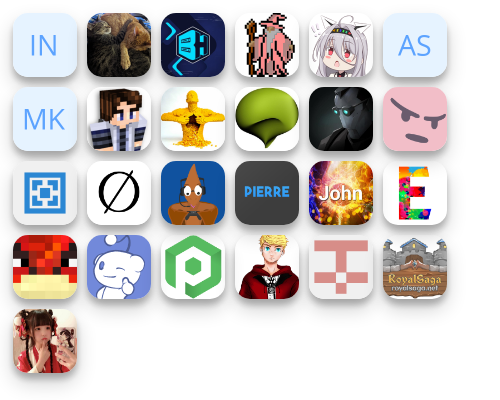
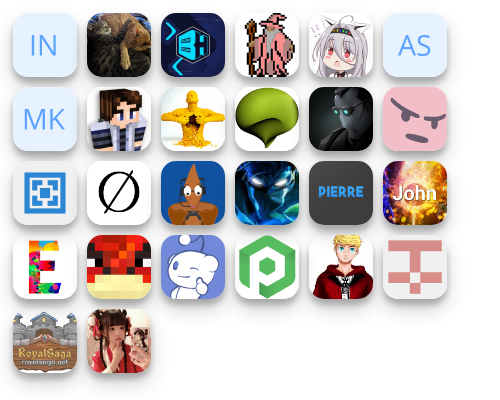
Sponsor Update

Changed region(s): [[0.45, 0.39, 0.9, 0.75], [0.0, 0.57, 0.45, 0.96]]

diff --git a/sponsors.html b/sponsors.html
@@ -1,7 +1,7 @@
 <html lang="en" style="height: 400px;width: 500px">
     <body>
     <ul style="margin: 0;padding: 0;list-style: none;">
-        <li style="display: inline"><img src='https://images.opencollective.com/incognito-6605083f/avatar.png' alt='Incognito' title='Incognito' onerror='this.src="https://opencollective.com/static/images/default-guest-logo.svg"' style="height: 64px;width: 64px;margin: 5px;border-radius: 15px;box-shadow: 0 10px 20px rgba(0,0,0,0.19), 0 6px 6px rgba(0,0,0,0.23);"/></li><li style="display: inline"><img src='https://images.opencollective.com/kyle-wood/57ef452/avatar.png' alt='Kyle Wood' title='Kyle Wood' onerror='this.src="https://opencollective.com/static/images/default-guest-logo.svg"' style="height: 64px;width: 64px;margin: 5px;border-radius: 15px;box-shadow: 0 10px 20px rgba(0,0,0,0.19), 0 6px 6px rgba(0,0,0,0.23);"/></li><li style="display: inline"><img src='https://images.opencollective.com/bisecthosting/a176793/logo.png' alt='BisectHosting' title='BisectHosting' onerror='this.src="https://opencollective.com/static/images/default-guest-logo.svg"' style="height: 64px;width: 64px;margin: 5px;border-radius: 15px;box-shadow: 0 10px 20px rgba(0,0,0,0.19), 0 6px 6px rgba(0,0,0,0.23);"/></li><li style="display: inline"><img src='https://images.opencollective.com/notmyfault/8026388/avatar.png' alt='NotMyFault' title='NotMyFault' onerror='this.src="https://opencollective.com/static/images/default-guest-logo.svg"' style="height: 64px;width: 64px;margin: 5px;border-radius: 15px;box-shadow: 0 10px 20px rgba(0,0,0,0.19), 0 6px 6px rgba(0,0,0,0.23);"/></li><li style="display: inline"><img src='https://images.opencollective.com/paper-chan/21d649c/avatar.png' alt='Paper Chan' title='Paper Chan' onerror='this.src="https://opencollective.com/static/images/default-guest-logo.svg"' style="height: 64px;width: 64px;margin: 5px;border-radius: 15px;box-shadow: 0 10px 20px rgba(0,0,0,0.19), 0 6px 6px rgba(0,0,0,0.23);"/></li><li style="display: inline"><img src='https://images.opencollective.com/andrew-steinborn/avatar.png' alt='Andrew Steinborn' title='Andrew Steinborn' onerror='this.src="https://opencollective.com/static/images/default-guest-logo.svg"' style="height: 64px;width: 64px;margin: 5px;border-radius: 15px;box-shadow: 0 10px 20px rgba(0,0,0,0.19), 0 6px 6px rgba(0,0,0,0.23);"/></li><li style="display: inline"><img src='https://images.opencollective.com/guest-e5424b5d/avatar.png' alt='Max Klug' title='Max Klug' onerror='this.src="https://opencollective.com/static/images/default-guest-logo.svg"' style="height: 64px;width: 64px;margin: 5px;border-radius: 15px;box-shadow: 0 10px 20px rgba(0,0,0,0.19), 0 6px 6px rgba(0,0,0,0.23);"/></li><li style="display: inline"><img src='https://images.opencollective.com/macth3mac/0c70ec8/avatar.png' alt='MacTh3Mac' title='MacTh3Mac' onerror='this.src="https://opencollective.com/static/images/default-guest-logo.svg"' style="height: 64px;width: 64px;margin: 5px;border-radius: 15px;box-shadow: 0 10px 20px rgba(0,0,0,0.19), 0 6px 6px rgba(0,0,0,0.23);"/></li><li style="display: inline"><img src='https://images.opencollective.com/minidigger/d330b74/avatar.png' alt='MiniDigger | Martin' title='MiniDigger | Martin' onerror='this.src="https://opencollective.com/static/images/default-guest-logo.svg"' style="height: 64px;width: 64px;margin: 5px;border-radius: 15px;box-shadow: 0 10px 20px rgba(0,0,0,0.19), 0 6px 6px rgba(0,0,0,0.23);"/></li><li style="display: inline"><img src='https://avatars.githubusercontent.com/u/181668?v=4' alt='mbax' title='mbax' onerror='this.src="https://opencollective.com/static/images/default-guest-logo.svg"' style="height: 64px;width: 64px;margin: 5px;border-radius: 15px;box-shadow: 0 10px 20px rgba(0,0,0,0.19), 0 6px 6px rgba(0,0,0,0.23);"/></li><li style="display: inline"><img src='https://avatars.githubusercontent.com/u/3602279?u=d8ad6831864c2419b95272e155a503ea9f3b6158' alt='Doc94' title='Doc94' onerror='this.src="https://opencollective.com/static/images/default-guest-logo.svg"' style="height: 64px;width: 64px;margin: 5px;border-radius: 15px;box-shadow: 0 10px 20px rgba(0,0,0,0.19), 0 6px 6px rgba(0,0,0,0.23);"/></li><li style="display: inline"><img src='https://avatars.githubusercontent.com/u/7191851?v=4' alt='sweepyoface' title='sweepyoface' onerror='this.src="https://opencollective.com/static/images/default-guest-logo.svg"' style="height: 64px;width: 64px;margin: 5px;border-radius: 15px;box-shadow: 0 10px 20px rgba(0,0,0,0.19), 0 6px 6px rgba(0,0,0,0.23);"/></li><li style="display: inline"><img src='https://avatars.githubusercontent.com/u/10004025?v=4' alt='aternosorg' title='aternosorg' onerror='this.src="https://opencollective.com/static/images/default-guest-logo.svg"' style="height: 64px;width: 64px;margin: 5px;border-radius: 15px;box-shadow: 0 10px 20px rgba(0,0,0,0.19), 0 6px 6px rgba(0,0,0,0.23);"/></li><li style="display: inline"><img src='https://avatars.githubusercontent.com/u/13875753?u=6e3a6da4e2af646471f846dc618c251b00b58d9c' alt='LMBishop' title='LMBishop' onerror='this.src="https://opencollective.com/static/images/default-guest-logo.svg"' style="height: 64px;width: 64px;margin: 5px;border-radius: 15px;box-shadow: 0 10px 20px rgba(0,0,0,0.19), 0 6px 6px rgba(0,0,0,0.23);"/></li><li style="display: inline"><img src='https://avatars.githubusercontent.com/u/16179146?v=4' alt='pterodactyl' title='pterodactyl' onerror='this.src="https://opencollective.com/static/images/default-guest-logo.svg"' style="height: 64px;width: 64px;margin: 5px;border-radius: 15px;box-shadow: 0 10px 20px rgba(0,0,0,0.19), 0 6px 6px rgba(0,0,0,0.23);"/></li><li style="display: inline"><img src='https://avatars.githubusercontent.com/u/27054324?u=bb7337fe6921d0d732fa56b4089366e721987ef1' alt='PierreSchwang' title='PierreSchwang' onerror='this.src="https://opencollective.com/static/images/default-guest-logo.svg"' style="height: 64px;width: 64px;margin: 5px;border-radius: 15px;box-shadow: 0 10px 20px rgba(0,0,0,0.19), 0 6px 6px rgba(0,0,0,0.23);"/></li><li style="display: inline"><img src='https://avatars.githubusercontent.com/u/28821789?v=4' alt='J0ddy' title='J0ddy' onerror='this.src="https://opencollective.com/static/images/default-guest-logo.svg"' style="height: 64px;width: 64px;margin: 5px;border-radius: 15px;box-shadow: 0 10px 20px rgba(0,0,0,0.19), 0 6px 6px rgba(0,0,0,0.23);"/></li><li style="display: inline"><img src='https://avatars.githubusercontent.com/u/35953244?v=4' alt='emielderckx' title='emielderckx' onerror='this.src="https://opencollective.com/static/images/default-guest-logo.svg"' style="height: 64px;width: 64px;margin: 5px;border-radius: 15px;box-shadow: 0 10px 20px rgba(0,0,0,0.19), 0 6px 6px rgba(0,0,0,0.23);"/></li><li style="display: inline"><img src='https://avatars.githubusercontent.com/u/42840288?u=a5c905371d28210544d8c8bb2ec8ec71f5fa8f57' alt='redbau' title='redbau' onerror='this.src="https://opencollective.com/static/images/default-guest-logo.svg"' style="height: 64px;width: 64px;margin: 5px;border-radius: 15px;box-shadow: 0 10px 20px rgba(0,0,0,0.19), 0 6px 6px rgba(0,0,0,0.23);"/></li><li style="display: inline"><img src='https://avatars.githubusercontent.com/u/44026893?u=1aa282d38edd1262d618ee4ec268cbf1c922f5b9' alt='NoahvdAa' title='NoahvdAa' onerror='this.src="https://opencollective.com/static/images/default-guest-logo.svg"' style="height: 64px;width: 64px;margin: 5px;border-radius: 15px;box-shadow: 0 10px 20px rgba(0,0,0,0.19), 0 6px 6px rgba(0,0,0,0.23);"/></li><li style="display: inline"><img src='https://avatars.githubusercontent.com/u/53379531?v=4' alt='pebblehost' title='pebblehost' onerror='this.src="https://opencollective.com/static/images/default-guest-logo.svg"' style="height: 64px;width: 64px;margin: 5px;border-radius: 15px;box-shadow: 0 10px 20px rgba(0,0,0,0.19), 0 6px 6px rgba(0,0,0,0.23);"/></li><li style="display: inline"><img src='https://avatars.githubusercontent.com/u/59731738?u=20b60f5cf11f16f22da954a1fb17285229ed96c3' alt='otDan' title='otDan' onerror='this.src="https://opencollective.com/static/images/default-guest-logo.svg"' style="height: 64px;width: 64px;margin: 5px;border-radius: 15px;box-shadow: 0 10px 20px rgba(0,0,0,0.19), 0 6px 6px rgba(0,0,0,0.23);"/></li><li style="display: inline"><img src='https://avatars.githubusercontent.com/u/65355670?v=4' alt='BeastyBoo' title='BeastyBoo' onerror='this.src="https://opencollective.com/static/images/default-guest-logo.svg"' style="height: 64px;width: 64px;margin: 5px;border-radius: 15px;box-shadow: 0 10px 20px rgba(0,0,0,0.19), 0 6px 6px rgba(0,0,0,0.23);"/></li><li style="display: inline"><img src='https://avatars.githubusercontent.com/u/65445018?v=4' alt='RoyalSaga' title='RoyalSaga' onerror='this.src="https://opencollective.com/static/images/default-guest-logo.svg"' style="height: 64px;width: 64px;margin: 5px;border-radius: 15px;box-shadow: 0 10px 20px rgba(0,0,0,0.19), 0 6px 6px rgba(0,0,0,0.23);"/></li><li style="display: inline"><img src='https://avatars.githubusercontent.com/u/91187349?u=c1ea640980100674bbc9719d04594c404b5dde51' alt='First-Dream' title='First-Dream' onerror='this.src="https://opencollective.com/static/images/default-guest-logo.svg"' style="height: 64px;width: 64px;margin: 5px;border-radius: 15px;box-shadow: 0 10px 20px rgba(0,0,0,0.19), 0 6px 6px rgba(0,0,0,0.23);"/></li>
+        <li style="display: inline"><img src='https://images.opencollective.com/incognito-6605083f/avatar.png' alt='Incognito' title='Incognito' onerror='this.src="https://opencollective.com/static/images/default-guest-logo.svg"' style="height: 64px;width: 64px;margin: 5px;border-radius: 15px;box-shadow: 0 10px 20px rgba(0,0,0,0.19), 0 6px 6px rgba(0,0,0,0.23);"/></li><li style="display: inline"><img src='https://images.opencollective.com/kyle-wood/57ef452/avatar.png' alt='Kyle Wood' title='Kyle Wood' onerror='this.src="https://opencollective.com/static/images/default-guest-logo.svg"' style="height: 64px;width: 64px;margin: 5px;border-radius: 15px;box-shadow: 0 10px 20px rgba(0,0,0,0.19), 0 6px 6px rgba(0,0,0,0.23);"/></li><li style="display: inline"><img src='https://images.opencollective.com/bisecthosting/a176793/logo.png' alt='BisectHosting' title='BisectHosting' onerror='this.src="https://opencollective.com/static/images/default-guest-logo.svg"' style="height: 64px;width: 64px;margin: 5px;border-radius: 15px;box-shadow: 0 10px 20px rgba(0,0,0,0.19), 0 6px 6px rgba(0,0,0,0.23);"/></li><li style="display: inline"><img src='https://images.opencollective.com/notmyfault/8026388/avatar.png' alt='NotMyFault' title='NotMyFault' onerror='this.src="https://opencollective.com/static/images/default-guest-logo.svg"' style="height: 64px;width: 64px;margin: 5px;border-radius: 15px;box-shadow: 0 10px 20px rgba(0,0,0,0.19), 0 6px 6px rgba(0,0,0,0.23);"/></li><li style="display: inline"><img src='https://images.opencollective.com/paper-chan/21d649c/avatar.png' alt='Paper Chan' title='Paper Chan' onerror='this.src="https://opencollective.com/static/images/default-guest-logo.svg"' style="height: 64px;width: 64px;margin: 5px;border-radius: 15px;box-shadow: 0 10px 20px rgba(0,0,0,0.19), 0 6px 6px rgba(0,0,0,0.23);"/></li><li style="display: inline"><img src='https://images.opencollective.com/andrew-steinborn/avatar.png' alt='Andrew Steinborn' title='Andrew Steinborn' onerror='this.src="https://opencollective.com/static/images/default-guest-logo.svg"' style="height: 64px;width: 64px;margin: 5px;border-radius: 15px;box-shadow: 0 10px 20px rgba(0,0,0,0.19), 0 6px 6px rgba(0,0,0,0.23);"/></li><li style="display: inline"><img src='https://images.opencollective.com/guest-e5424b5d/avatar.png' alt='Max Klug' title='Max Klug' onerror='this.src="https://opencollective.com/static/images/default-guest-logo.svg"' style="height: 64px;width: 64px;margin: 5px;border-radius: 15px;box-shadow: 0 10px 20px rgba(0,0,0,0.19), 0 6px 6px rgba(0,0,0,0.23);"/></li><li style="display: inline"><img src='https://images.opencollective.com/macth3mac/0c70ec8/avatar.png' alt='MacTh3Mac' title='MacTh3Mac' onerror='this.src="https://opencollective.com/static/images/default-guest-logo.svg"' style="height: 64px;width: 64px;margin: 5px;border-radius: 15px;box-shadow: 0 10px 20px rgba(0,0,0,0.19), 0 6px 6px rgba(0,0,0,0.23);"/></li><li style="display: inline"><img src='https://images.opencollective.com/minidigger/d330b74/avatar.png' alt='MiniDigger | Martin' title='MiniDigger | Martin' onerror='this.src="https://opencollective.com/static/images/default-guest-logo.svg"' style="height: 64px;width: 64px;margin: 5px;border-radius: 15px;box-shadow: 0 10px 20px rgba(0,0,0,0.19), 0 6px 6px rgba(0,0,0,0.23);"/></li><li style="display: inline"><img src='https://avatars.githubusercontent.com/u/181668?v=4' alt='mbax' title='mbax' onerror='this.src="https://opencollective.com/static/images/default-guest-logo.svg"' style="height: 64px;width: 64px;margin: 5px;border-radius: 15px;box-shadow: 0 10px 20px rgba(0,0,0,0.19), 0 6px 6px rgba(0,0,0,0.23);"/></li><li style="display: inline"><img src='https://avatars.githubusercontent.com/u/3602279?u=d8ad6831864c2419b95272e155a503ea9f3b6158' alt='Doc94' title='Doc94' onerror='this.src="https://opencollective.com/static/images/default-guest-logo.svg"' style="height: 64px;width: 64px;margin: 5px;border-radius: 15px;box-shadow: 0 10px 20px rgba(0,0,0,0.19), 0 6px 6px rgba(0,0,0,0.23);"/></li><li style="display: inline"><img src='https://avatars.githubusercontent.com/u/7191851?v=4' alt='sweepyoface' title='sweepyoface' onerror='this.src="https://opencollective.com/static/images/default-guest-logo.svg"' style="height: 64px;width: 64px;margin: 5px;border-radius: 15px;box-shadow: 0 10px 20px rgba(0,0,0,0.19), 0 6px 6px rgba(0,0,0,0.23);"/></li><li style="display: inline"><img src='https://avatars.githubusercontent.com/u/10004025?v=4' alt='aternosorg' title='aternosorg' onerror='this.src="https://opencollective.com/static/images/default-guest-logo.svg"' style="height: 64px;width: 64px;margin: 5px;border-radius: 15px;box-shadow: 0 10px 20px rgba(0,0,0,0.19), 0 6px 6px rgba(0,0,0,0.23);"/></li><li style="display: inline"><img src='https://avatars.githubusercontent.com/u/13875753?u=6e3a6da4e2af646471f846dc618c251b00b58d9c' alt='LMBishop' title='LMBishop' onerror='this.src="https://opencollective.com/static/images/default-guest-logo.svg"' style="height: 64px;width: 64px;margin: 5px;border-radius: 15px;box-shadow: 0 10px 20px rgba(0,0,0,0.19), 0 6px 6px rgba(0,0,0,0.23);"/></li><li style="display: inline"><img src='https://avatars.githubusercontent.com/u/16179146?v=4' alt='pterodactyl' title='pterodactyl' onerror='this.src="https://opencollective.com/static/images/default-guest-logo.svg"' style="height: 64px;width: 64px;margin: 5px;border-radius: 15px;box-shadow: 0 10px 20px rgba(0,0,0,0.19), 0 6px 6px rgba(0,0,0,0.23);"/></li><li style="display: inline"><img src='https://avatars.githubusercontent.com/u/22596638?u=caeb1d783667d53300459717929a163ae21d58bf' alt='Taranchul' title='Taranchul' onerror='this.src="https://opencollective.com/static/images/default-guest-logo.svg"' style="height: 64px;width: 64px;margin: 5px;border-radius: 15px;box-shadow: 0 10px 20px rgba(0,0,0,0.19), 0 6px 6px rgba(0,0,0,0.23);"/></li><li style="display: inline"><img src='https://avatars.githubusercontent.com/u/27054324?u=bb7337fe6921d0d732fa56b4089366e721987ef1' alt='PierreSchwang' title='PierreSchwang' onerror='this.src="https://opencollective.com/static/images/default-guest-logo.svg"' style="height: 64px;width: 64px;margin: 5px;border-radius: 15px;box-shadow: 0 10px 20px rgba(0,0,0,0.19), 0 6px 6px rgba(0,0,0,0.23);"/></li><li style="display: inline"><img src='https://avatars.githubusercontent.com/u/28821789?v=4' alt='J0ddy' title='J0ddy' onerror='this.src="https://opencollective.com/static/images/default-guest-logo.svg"' style="height: 64px;width: 64px;margin: 5px;border-radius: 15px;box-shadow: 0 10px 20px rgba(0,0,0,0.19), 0 6px 6px rgba(0,0,0,0.23);"/></li><li style="display: inline"><img src='https://avatars.githubusercontent.com/u/35953244?v=4' alt='emielderckx' title='emielderckx' onerror='this.src="https://opencollective.com/static/images/default-guest-logo.svg"' style="height: 64px;width: 64px;margin: 5px;border-radius: 15px;box-shadow: 0 10px 20px rgba(0,0,0,0.19), 0 6px 6px rgba(0,0,0,0.23);"/></li><li style="display: inline"><img src='https://avatars.githubusercontent.com/u/42840288?u=a5c905371d28210544d8c8bb2ec8ec71f5fa8f57' alt='redbau' title='redbau' onerror='this.src="https://opencollective.com/static/images/default-guest-logo.svg"' style="height: 64px;width: 64px;margin: 5px;border-radius: 15px;box-shadow: 0 10px 20px rgba(0,0,0,0.19), 0 6px 6px rgba(0,0,0,0.23);"/></li><li style="display: inline"><img src='https://avatars.githubusercontent.com/u/44026893?u=1aa282d38edd1262d618ee4ec268cbf1c922f5b9' alt='NoahvdAa' title='NoahvdAa' onerror='this.src="https://opencollective.com/static/images/default-guest-logo.svg"' style="height: 64px;width: 64px;margin: 5px;border-radius: 15px;box-shadow: 0 10px 20px rgba(0,0,0,0.19), 0 6px 6px rgba(0,0,0,0.23);"/></li><li style="display: inline"><img src='https://avatars.githubusercontent.com/u/53379531?v=4' alt='pebblehost' title='pebblehost' onerror='this.src="https://opencollective.com/static/images/default-guest-logo.svg"' style="height: 64px;width: 64px;margin: 5px;border-radius: 15px;box-shadow: 0 10px 20px rgba(0,0,0,0.19), 0 6px 6px rgba(0,0,0,0.23);"/></li><li style="display: inline"><img src='https://avatars.githubusercontent.com/u/59731738?u=20b60f5cf11f16f22da954a1fb17285229ed96c3' alt='otDan' title='otDan' onerror='this.src="https://opencollective.com/static/images/default-guest-logo.svg"' style="height: 64px;width: 64px;margin: 5px;border-radius: 15px;box-shadow: 0 10px 20px rgba(0,0,0,0.19), 0 6px 6px rgba(0,0,0,0.23);"/></li><li style="display: inline"><img src='https://avatars.githubusercontent.com/u/65355670?v=4' alt='BeastyBoo' title='BeastyBoo' onerror='this.src="https://opencollective.com/static/images/default-guest-logo.svg"' style="height: 64px;width: 64px;margin: 5px;border-radius: 15px;box-shadow: 0 10px 20px rgba(0,0,0,0.19), 0 6px 6px rgba(0,0,0,0.23);"/></li><li style="display: inline"><img src='https://avatars.githubusercontent.com/u/65445018?v=4' alt='RoyalSaga' title='RoyalSaga' onerror='this.src="https://opencollective.com/static/images/default-guest-logo.svg"' style="height: 64px;width: 64px;margin: 5px;border-radius: 15px;box-shadow: 0 10px 20px rgba(0,0,0,0.19), 0 6px 6px rgba(0,0,0,0.23);"/></li><li style="display: inline"><img src='https://avatars.githubusercontent.com/u/91187349?u=c1ea640980100674bbc9719d04594c404b5dde51' alt='First-Dream' title='First-Dream' onerror='this.src="https://opencollective.com/static/images/default-guest-logo.svg"' style="height: 64px;width: 64px;margin: 5px;border-radius: 15px;box-shadow: 0 10px 20px rgba(0,0,0,0.19), 0 6px 6px rgba(0,0,0,0.23);"/></li>
     </ul>
     </body>
     </html>
